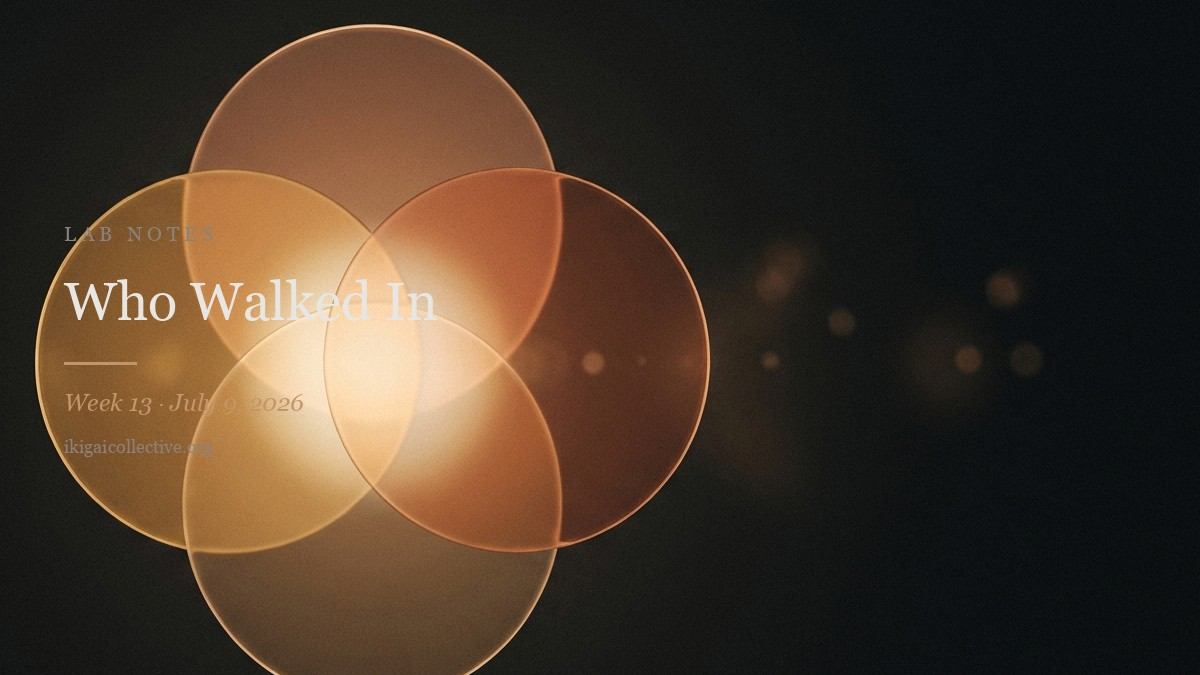
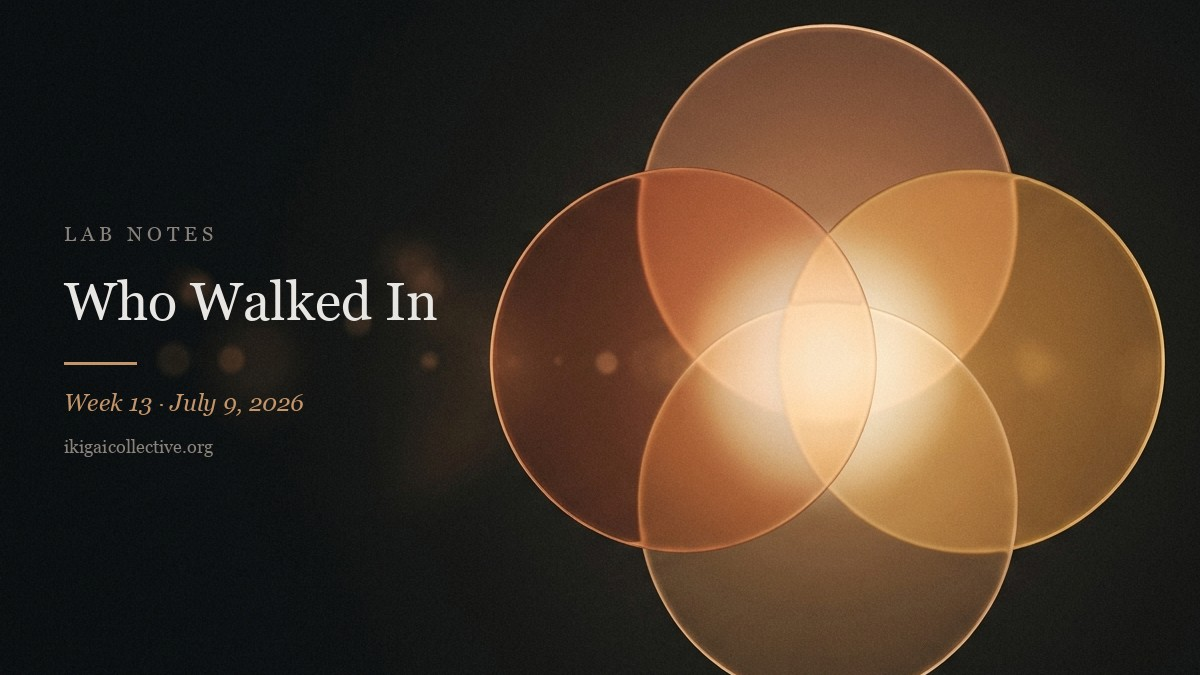
lab-notes: week-13 cover — keep Venn cluster right of the text (flip override)

diff --git a/lab-notes/make_covers.py b/lab-notes/make_covers.py
@@ -42,6 +42,10 @@ def parse_meta(path: Path) -> dict:
     return meta
 
 
+# Weeks where the seeded flip would land the Venn cluster on the text (left) side.
+NO_FLIP = {13}
+
+
 def background(week: int) -> Image.Image:
     """Week-seeded crop + tone of the master: same family, distinct feel."""
     m = Image.open(SRC / "master-16x9.png").convert("RGB")
@@ -49,7 +53,7 @@ def background(week: int) -> Image.Image:
     x_off = (week * 37) % max(1, mw - W)
     y_off = (week * 23) % max(1, mh - H)
     im = m.crop((x_off, y_off, x_off + W, y_off + H))
-    if week % 2:
+    if week % 2 and week not in NO_FLIP:
         im = im.transpose(Image.FLIP_LEFT_RIGHT)
     im = ImageEnhance.Brightness(im).enhance(0.94 + (week % 5) * 0.03)
     im = ImageEnhance.Color(im).enhance(0.92 + (week % 4) * 0.05)
